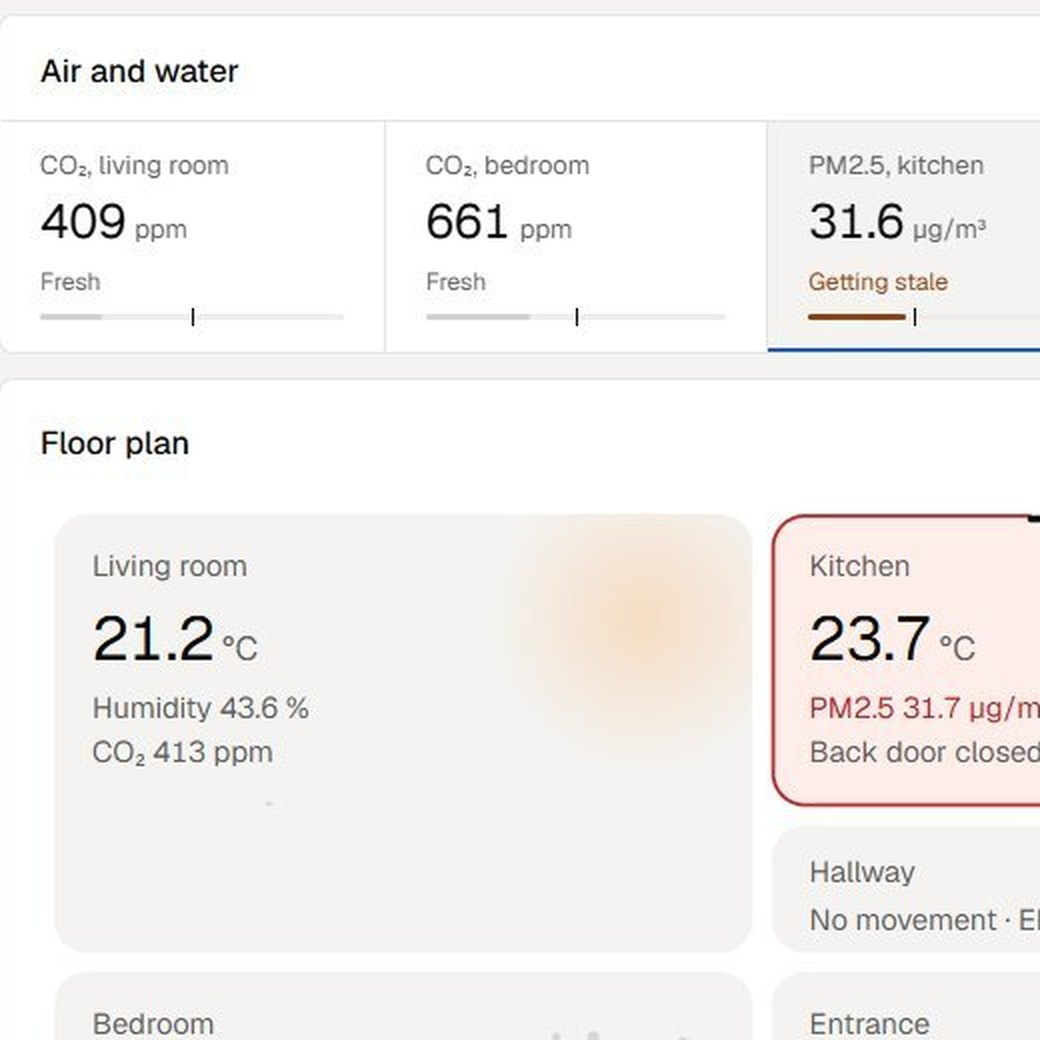
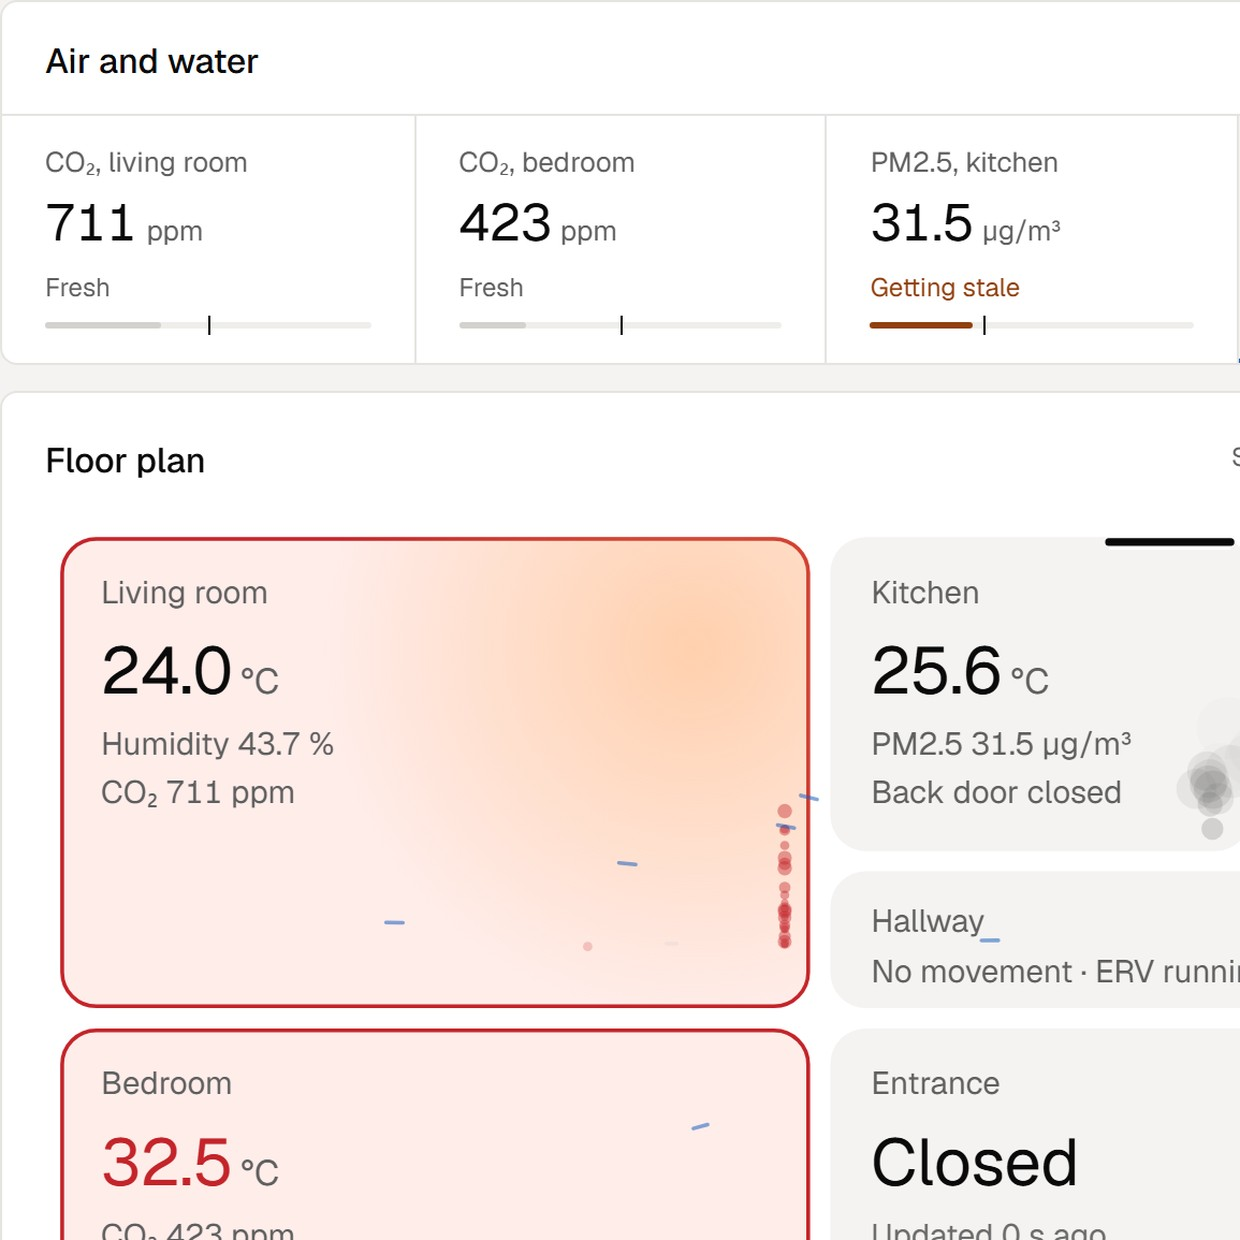
Sharper dashboard plates, a new hero photo and tidier spacing

diff --git a/site/style.css b/site/style.css
@@ -83,13 +83,13 @@ p { margin: 0; }
 }
 .hours {
   position: absolute; left: 0; right: 0; bottom: 0;
-  min-height: 64px; padding: 10px 20px;
+  min-height: 72px; padding: 10px 20px;
   display: flex; align-items: center; justify-content: space-between; gap: 20px;
   background: var(--bg);
   font-size: var(--step-small);
 }
 .hours output { font-size: var(--step-lead); font-variant-numeric: tabular-nums lining-nums; min-width: 3.2em; }
-.hours__drag { display: grid; gap: 4px; flex: 1; max-width: 360px; text-align: right; color: var(--muted); cursor: grab; }
+.hours__drag { display: grid; gap: 4px; flex: 1; max-width: 380px; text-align: right; color: var(--muted); cursor: grab; font-size: 1rem; }
 .hours__drag span { color: var(--ink); font-variant-numeric: tabular-nums lining-nums; }
 input[type=range] { -webkit-appearance: none; appearance: none; width: 100%; height: 28px; background: transparent; cursor: grab; margin: 0; }
 input[type=range]::-webkit-slider-runnable-track { height: 4px; border-radius: 4px; background: var(--hours-track, #d9a35f); }
@@ -102,7 +102,7 @@ input[type=range]:active::-webkit-slider-thumb { transform: scale(1.2); }
 .sheet {
   min-height: calc(100svh - 2 * var(--m));
   background: var(--surface); border-radius: var(--r);
-  display: grid; grid-template-rows: auto 1fr; padding: 22px clamp(20px, 3vw, 44px) 40px;
+  display: grid; grid-template-rows: auto 1fr auto; padding: 22px clamp(20px, 3vw, 44px) 32px;
 }
 .bar { display: grid; grid-template-columns: 1fr auto 1fr; align-items: center; font-size: var(--step-small); }
 .bar a { text-decoration: none; transition: opacity 0.25s; }
@@ -111,6 +111,8 @@ input[type=range]:active::-webkit-slider-thumb { transform: scale(1.2); }
 .word { font-size: clamp(1.75rem, 1.3rem + 1.4vw, 2.5rem); font-style: italic; letter-spacing: -0.02em; }
 .sheet__body { align-self: center; text-align: center; display: grid; justify-items: center; gap: 36px; padding: 12vh 0 14vh; }
 .sheet h1 { font-size: clamp(2.6rem, 1rem + 4.2vw, 4.6rem); line-height: 1.02; letter-spacing: -0.025em; max-width: 13ch; color: var(--accent); }
+.facts { list-style: none; margin: 0; padding: 0; display: flex; justify-content: space-between; gap: 16px; font-size: var(--step-small); color: var(--muted); }
+.facts li { max-width: 12em; }
 .lead { max-width: 36ch; font-size: var(--step-lead); line-height: 1.4; margin-top: -4px; }
 
 /* intro */
@@ -179,11 +181,11 @@ input[type=range]:active::-webkit-slider-thumb { transform: scale(1.2); }
 .watch__rows { display: grid; gap: 88px; min-width: 0; }
 .row { min-width: 0; }
 .row h3 { font-size: clamp(1.75rem, 1.4rem + 1vw, 2.2rem); margin-bottom: 24px; }
-.row__pair { display: grid; grid-template-columns: minmax(160px, 220px) 1fr; gap: 32px; align-items: start; }
-.row--flip .row__pair { grid-template-columns: 1fr minmax(160px, 220px); }
+.row__pair { display: grid; grid-template-columns: minmax(180px, 270px) 1fr; gap: 36px; align-items: start; }
+.row--flip .row__pair { grid-template-columns: 1fr minmax(180px, 270px); }
 .row--flip .row__pair img { order: 2; }
 .row__pair img { aspect-ratio: 3 / 4; width: 100%; object-fit: cover; border-radius: var(--r); }
-.row ul { list-style: none; margin: 0; padding: 0; display: grid; gap: 14px; font-size: 1.125rem; color: var(--field-muted); }
+.row ul { list-style: none; margin: 0; padding: 0; display: grid; gap: 14px; font-size: 1.1875rem; padding-top: 6px; color: var(--field-muted); }
 .row ul li:first-child { color: var(--field-ink); }
 .row--code p { color: var(--field-muted); max-width: 40ch; margin-bottom: 24px; }
 .row--code pre { margin: 0; padding: 24px; border-radius: var(--r); background: #182922; color: #dfe8e1; overflow-x: auto; font: 0.9rem/1.6 ui-monospace, "Cascadia Mono", Consolas, monospace; }
@@ -201,7 +203,7 @@ input[type=range]:active::-webkit-slider-thumb { transform: scale(1.2); }
 .close p { max-width: 34ch; }
 
 /* footer */
-.foot { padding: 30svh clamp(20px, 4vw, 72px) 30px; display: grid; grid-template-columns: 1fr auto 1fr; gap: 16px 24px; align-items: baseline; font-size: var(--step-small); color: var(--muted); }
+.foot { padding: 14svh clamp(20px, 4vw, 72px) 30px; display: grid; grid-template-columns: 1fr auto 1fr; gap: 16px 24px; align-items: baseline; font-size: var(--step-small); color: var(--muted); }
 .foot__links { display: flex; gap: 24px; }
 .foot__links a { color: var(--ink); }
 .foot > span:nth-child(3) { justify-self: end; }
@@ -247,6 +249,7 @@ input[type=range]:active::-webkit-slider-thumb { transform: scale(1.2); }
   .close__img { position: relative; height: 70svh; }
   .close__text { position: static; padding: 40px 20px 56px; }
   .close h2 { font-size: 2.1rem; }
-  .foot { grid-template-columns: 1fr; padding: 20svh 20px 24px; gap: 8px; }
+  .foot { grid-template-columns: 1fr; padding: 12svh 20px 24px; gap: 8px; }
+  .facts { flex-direction: column; gap: 6px; }
   .foot > span:nth-child(3) { justify-self: start; }
 }

diff --git a/site/index.html b/site/index.html
@@ -27,6 +27,11 @@
         <p class="lead" data-in>Hearth is a local-first smart home. Seventeen sensors watch the air, the water and the light in every room, and the house quietly acts on what they find.</p>
         <a class="btn" href="live/" data-in>Open the live home</a>
       </div>
+      <ul class="facts">
+        <li>Seventeen sensors in six rooms</li>
+        <li>Works without the internet</li>
+        <li>Shows up in Home Assistant</li>
+      </ul>
     </section>
 
     <section class="intro" aria-labelledby="intro-h" data-scene="1">
@@ -63,9 +68,9 @@
   <aside class="stage" aria-label="One day in the home">
     <div class="stage__frame">
       <div class="stage__pics">
-      <img class="stage__img is-on" src="assets/linen.jpg" width="1024" height="683" alt="Morning sun through a linen curtain onto a wooden floor">
+      <img class="stage__img is-on" src="assets/window-light.jpg" width="1600" height="1840" alt="Afternoon sun through a window grid, with a cat asleep in the light on the floor">
       <img class="stage__img" src="assets/texas-hill-country-near-medina.jpg" width="1920" height="1440" alt="A limestone hill above a meadow in the Texas Hill Country" loading="lazy">
-      <img class="stage__img" src="assets/hill-country-morning.jpg" width="1920" height="1440" alt="Morning sun breaking over hills and a river" loading="lazy">
+      <img class="stage__img" src="assets/stone-stair.jpg" width="1920" height="1630" alt="Sunlight on a stone stair through an open doorway" loading="lazy">
       <div class="stage__wash" aria-hidden="true"></div>
       </div>
       <div class="hours">
@@ -196,7 +201,7 @@
   <span>Hearth, a home that keeps itself well</span>
   <span class="foot__links"><a href="live/">Live home</a><a href="https://github.com/alok-kul5/hearth-iot">Code</a><a href="https://alok.is-a.dev">Alok Kulkarni</a></span>
   <span>2026 · MIT licence</span>
-  <p class="credits">Pictures: <a href="https://commons.wikimedia.org/w/index.php?curid=33453826">“Hill country morning”</a> by Christian_Hunter, <a href="https://creativecommons.org/licenses/by-sa/3.0/">CC BY-SA 3.0</a>; <a href="https://commons.wikimedia.org/w/index.php?curid=118426030">“Texas-Hill-Country-Near-Medina”</a> by Lorenzo The Snail, <a href="https://creativecommons.org/licenses/by-sa/4.0/">CC BY-SA 4.0</a>; <a href="https://commons.wikimedia.org/w/index.php?curid=4965862">“Texas Viewscape 2008”</a> by Baytownbert, <a href="https://creativecommons.org/licenses/by-sa/3.0/">CC BY-SA 3.0</a>, all via Wikimedia Commons; linen curtain via <a href="https://www.rawpixel.com/image/3285030/free-photo-image-morning-wooden-floor-sun-light-interior-decorations">rawpixel</a>, CC0; fog by Patrick Hendry via Unsplash.</p>
+  <p class="credits">Pictures: <a href="https://commons.wikimedia.org/w/index.php?curid=33453826">“Hill country morning”</a> by Christian_Hunter, <a href="https://creativecommons.org/licenses/by-sa/3.0/">CC BY-SA 3.0</a>; <a href="https://commons.wikimedia.org/w/index.php?curid=118426030">“Texas-Hill-Country-Near-Medina”</a> by Lorenzo The Snail, <a href="https://creativecommons.org/licenses/by-sa/4.0/">CC BY-SA 4.0</a>; <a href="https://commons.wikimedia.org/w/index.php?curid=4965862">“Texas Viewscape 2008”</a> by Baytownbert, <a href="https://creativecommons.org/licenses/by-sa/3.0/">CC BY-SA 3.0</a>, all via Wikimedia Commons; <a href="https://commons.wikimedia.org/w/index.php?curid=185788279">“Sunlit Domestic Cat Under Window Grid Shadow”</a> by UnknownCopy, <a href="https://creativecommons.org/licenses/by-sa/4.0/">CC BY-SA 4.0</a>; <a href="https://commons.wikimedia.org/w/index.php?curid=191808429">“Sunlit Stone Staircase”</a> by Michael Gaylard, <a href="https://creativecommons.org/licenses/by/4.0/">CC BY 4.0</a>; linen curtain via <a href="https://www.rawpixel.com/image/3285030/free-photo-image-morning-wooden-floor-sun-light-interior-decorations">rawpixel</a>, CC0; fog by Patrick Hendry via Unsplash.</p>
 </footer>
 
 <script src="main.js" defer></script>
